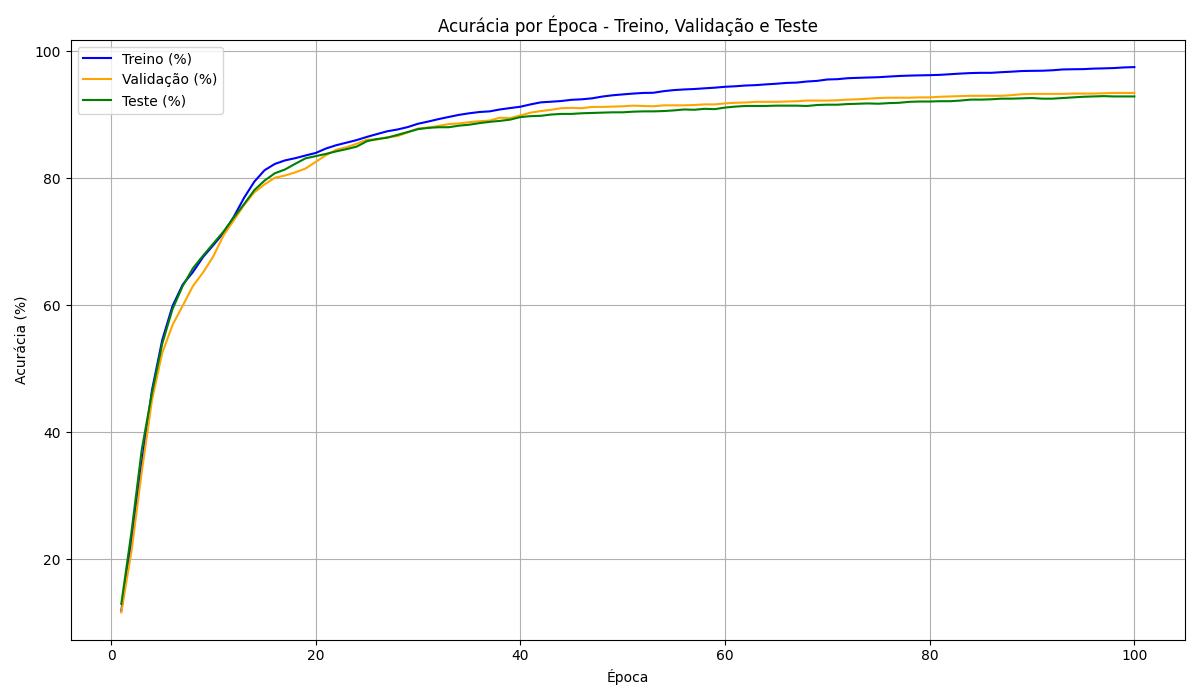
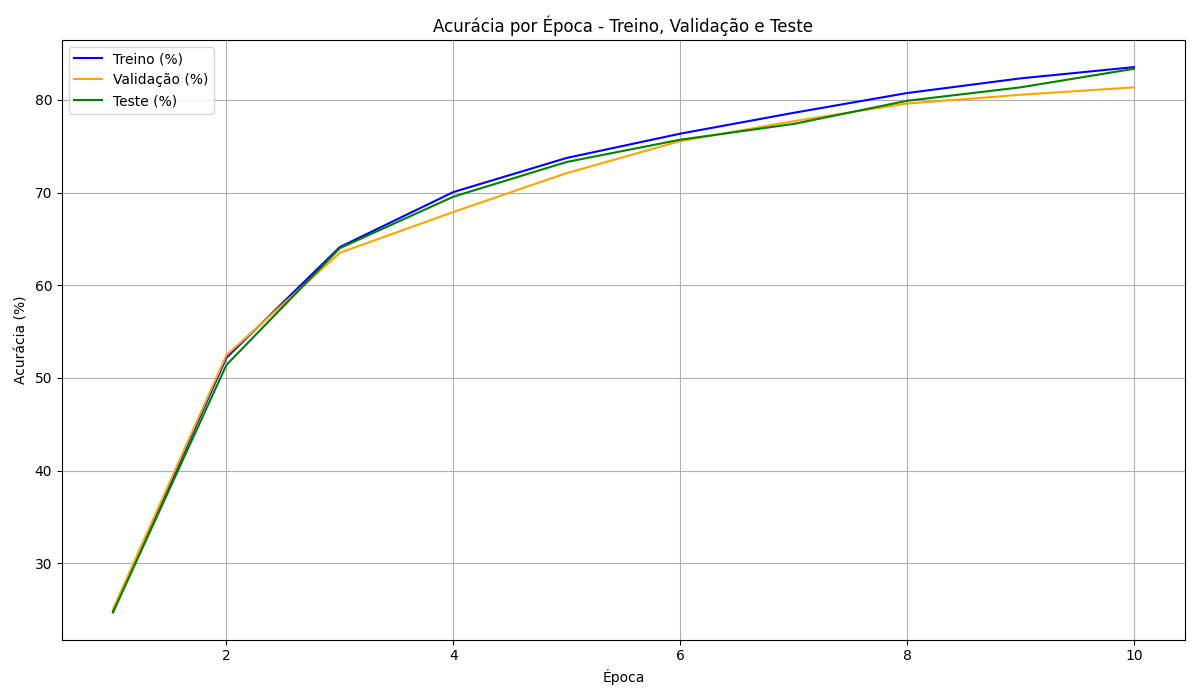
ultiomos ajustes

diff --git a/src/main/java/MnistPerceptronSplit.java b/src/main/java/MnistPerceptronSplit.java
@@ -23,7 +23,7 @@ public class MnistPerceptronSplit {
     public static void main(String[] args) throws Exception {
     int batchSize = 128; // lote maior para carregar tudo em memória
     int rngSeed = 12345;
-    int numEpochs = 150;
+    int numEpochs = 10;
 
     System.out.println("Carregando todo o dataset MNIST na memória...");
         DataSetIterator mnistAll = new MnistDataSetIterator(batchSize, false, rngSeed);
@@ -69,23 +69,26 @@ public class MnistPerceptronSplit {
         scaler.transform(val);
         scaler.transform(test);
 
-        System.out.println("Construindo rede neural: 2 camadas densas (128, 64) + 10 neurônios de saída...");
-        MultiLayerConfiguration conf = new NeuralNetConfiguration.Builder()
-                .seed(rngSeed)
-                .optimizationAlgo(OptimizationAlgorithm.STOCHASTIC_GRADIENT_DESCENT)
-                .updater(new Adam(0.001))
-                .list()
-                .layer(new DenseLayer.Builder().nIn(28*28).nOut(128).activation(Activation.RELU).build())
-                .layer(new DenseLayer.Builder().nIn(128).nOut(64).activation(Activation.RELU).build())
-                .layer(new OutputLayer.Builder(LossFunctions.LossFunction.NEGATIVELOGLIKELIHOOD)
-                        .activation(Activation.SOFTMAX).nIn(64).nOut(10).build())
-                .build();
+    System.out.println("Construindo rede neural: 2 camadas densas (128, 64) + 10 neurônios de saída...");
+    MultiLayerConfiguration conf = new NeuralNetConfiguration.Builder()
+        .seed(rngSeed)
+        .optimizationAlgo(OptimizationAlgorithm.STOCHASTIC_GRADIENT_DESCENT)
+        .updater(new Adam(0.001))
+        .list()
+        .layer(new DenseLayer.Builder().nIn(28*28).nOut(128).activation(Activation.RELU).build())
+        .layer(new DenseLayer.Builder().nIn(128).nOut(64).activation(Activation.RELU).build())
+        .layer(new OutputLayer.Builder(LossFunctions.LossFunction.NEGATIVELOGLIKELIHOOD)
+            .activation(Activation.SOFTMAX).nIn(64).nOut(10).build())
+        .build();
 
         MultiLayerNetwork model = new MultiLayerNetwork(conf);
         model.init();
         model.setListeners(new ScoreIterationListener(20));
 
         System.out.println("Iniciando treinamento por " + numEpochs + " épocas...");
+        // Preparar para salvar acurácias
+        java.io.FileWriter csvWriter = new java.io.FileWriter("acuracia_epocas.csv");
+        csvWriter.append("epoca,treino,validacao,teste\n");
         for (int i = 0; i < numEpochs; i++) {
             System.out.println("Treinando época " + (i+1) + "...");
             model.fit(train);
@@ -129,7 +132,12 @@ public class MnistPerceptronSplit {
             }
             double accTeste = (double) acertosTeste / totalTeste;
             System.out.println("Acurácia teste após época " + (i+1) + ": " + accTeste + " (" + String.format("%.2f", accTeste*100) + "%)");
+
+            // Salvar no CSV
+            csvWriter.append((i+1) + "," + accTreino + "," + accVal + "," + accTeste + "\n");
         }
+        csvWriter.flush();
+        csvWriter.close();
 
     }
 }

diff --git a/plot_acuracia.py b/plot_acuracia.py
@@ -6,9 +6,9 @@ csv_path = 'acuracia_epocas.csv'
 df = pd.read_csv(csv_path)
 
 plt.figure(figsize=(12,7))
-plt.plot(df['epoca'], df['acuracia_treino_percent'], label='Treino (%)', color='blue')
-plt.plot(df['epoca'], df['acuracia_validacao_percent'], label='Validação (%)', color='orange')
-plt.plot(df['epoca'], df['acuracia_teste_percent'], label='Teste (%)', color='green')
+plt.plot(df['epoca'], df['treino']*100, label='Treino (%)', color='blue')
+plt.plot(df['epoca'], df['validacao']*100, label='Validação (%)', color='orange')
+plt.plot(df['epoca'], df['teste']*100, label='Teste (%)', color='green')
 plt.xlabel('Época')
 plt.ylabel('Acurácia (%)')
 plt.title('Acurácia por Época - Treino, Validação e Teste')
